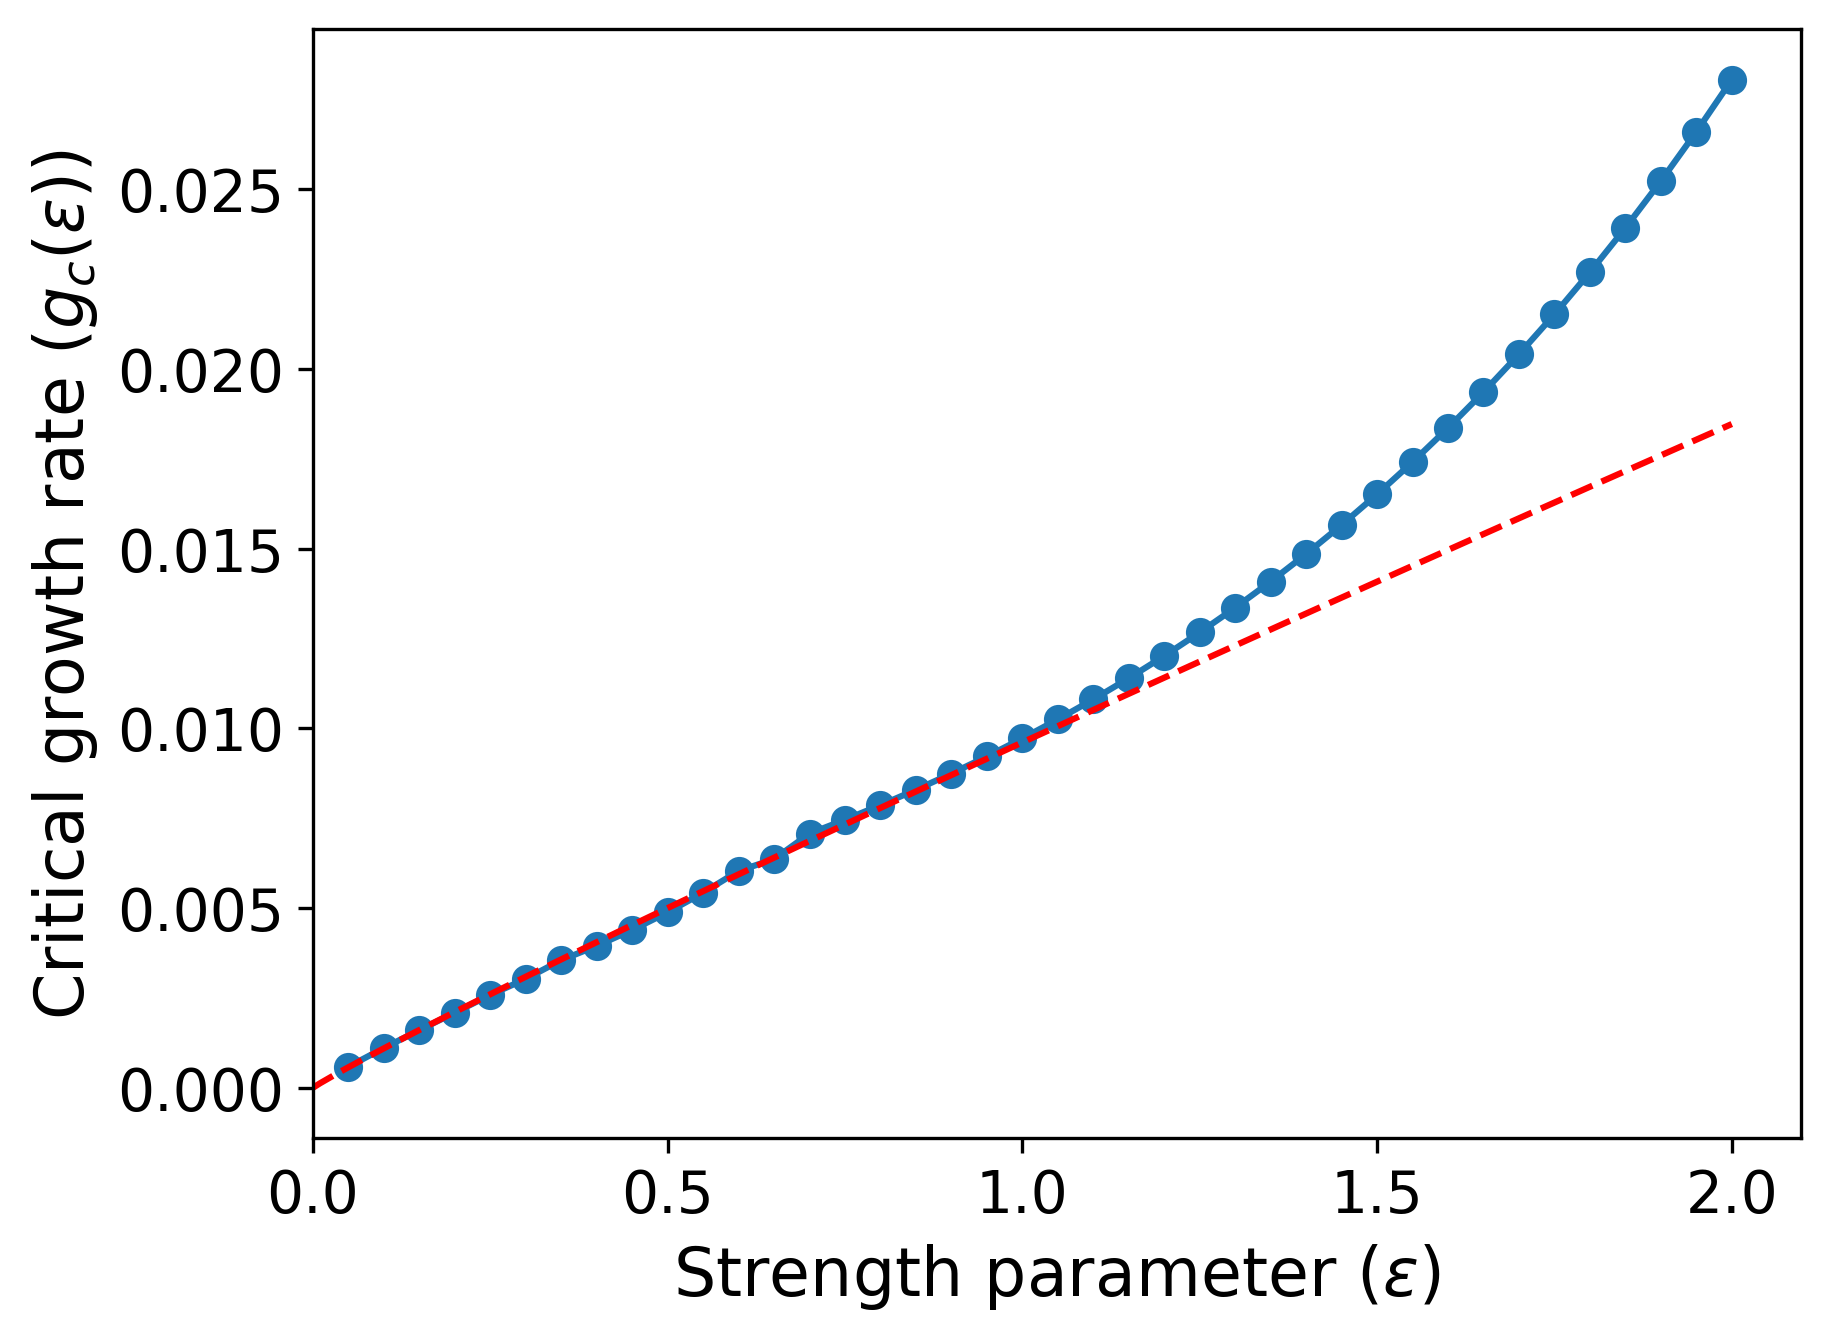
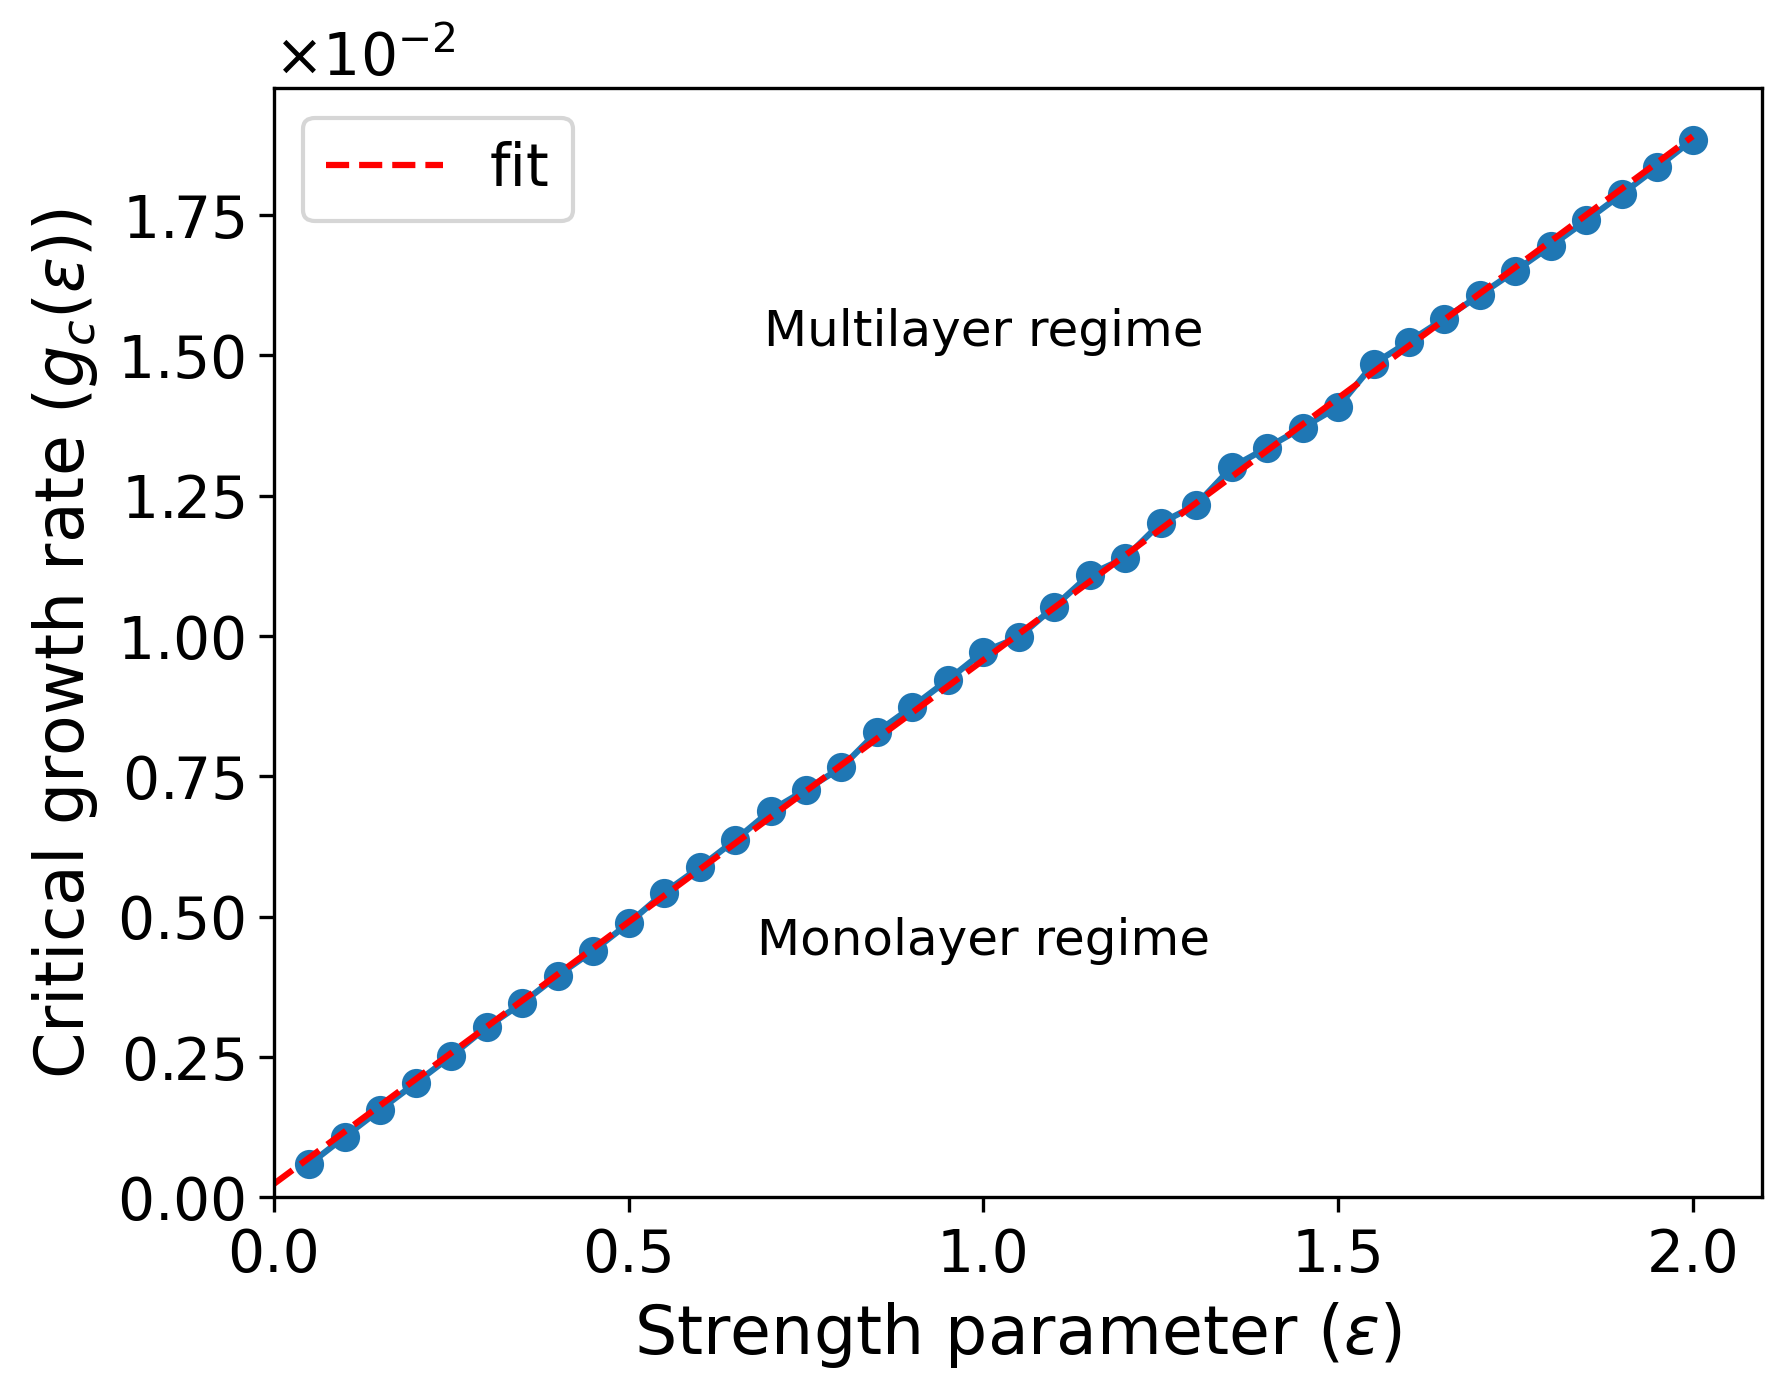
Critical time semi-log and log-log plot creation

diff --git a/plot_from_data.py b/plot_from_data.py
@@ -1,6 +1,7 @@
 import pandas as pd
 import numpy as np
 import matplotlib.pyplot as plt
+import matplotlib.ticker as ticker
 import os
 from scipy.stats import linregress
 
@@ -56,7 +57,7 @@ def plot_first_layer_event_from_csv(csv_filename, filename_event_time = None, fi
     plt.show()    
 
 def plot_critical_time_event_from_csv(csv_filename, xaxis_param='g', series_params=None, plot_filename=None,
-                                      loglog = False):
+                                      loglog = False, fit = False):
     """
     Recreate the plot of critical time vs growth parameter from saved CSV.
     
@@ -83,12 +84,16 @@ def plot_critical_time_event_from_csv(csv_filename, xaxis_param='g', series_para
     if series_params:
         grouped = df.groupby(series_params)
         for series_key, group in grouped:
+            opacity = 1
+            #if series_key[0] == 0.5 or series_key[0] == 2: continue
             group = group.sort_values(by=xaxis_param)
             x_vals = group[xaxis_param].values
             t_vals = group['t_event'].values
             if not isinstance(series_key, tuple):
                 series_key = (series_key,)
-            if loglog:
+            label = ", ".join([f"{p}={v}" for p, v in zip(series_params, series_key)])
+            ax.plot(x_vals, t_vals, marker='o', linestyle='-', label=label, alpha = opacity)
+            if fit:
                 # Regression line
                 x_data = np.log(x_vals)
                 y_data = np.log(t_vals)
@@ -102,9 +107,7 @@ def plot_critical_time_event_from_csv(csv_filename, xaxis_param='g', series_para
                 print(f"Power law fit: g(ε) = {A:.4f} * g^{B:.4f} (R² = {r_value**2:.4f})")
                 x_fit = np.linspace(min(x_vals), max(x_vals))
                 y_fit = A * x_fit**B
-                ax.plot(x_fit, y_fit, 'r--')
-            label = ", ".join([f"{p}={v}" for p, v in zip(series_params, series_key)])
-            ax.plot(x_vals, t_vals, marker='o', linestyle='-', label=label)
+                ax.plot(x_fit, y_fit, 'r--', label = 'fit')
     else:
         group = df.sort_values(by=xaxis_param)
         ax.plot(group[xaxis_param], group['t_event'], marker='o', linestyle='-', label=None)
@@ -115,6 +118,7 @@ def plot_critical_time_event_from_csv(csv_filename, xaxis_param='g', series_para
         ax.set_yscale('log')
     ax.set_xlabel("Growth parameter (g)")
     ax.set_ylabel('Critical time ($t_c$)')
+    ax.set_ylim(bottom = 0)
     ax.legend()
 
     if plot_filename:
@@ -252,15 +256,13 @@ def plot_phase_transition(csv_filename, plot_filename = None, loglog = False):
     epsilon_values = df['epsilon'].values
 
     if loglog:
-        x_data = np.log(epsilon_values[:20:])
-        y_data = np.log(g_values[:20])
+        x_data = epsilon_values
+        y_data = g_values
         # fit linear regression
         slope, intercept, r_value, p_value, std_err = linregress(x_data, y_data)
-        A = np.exp(intercept)
-        B = slope
-        print(f"Power law fit: g(ε) = {A:.4f} * ε^{B:.4f} (R² = {r_value**2:.4f})")
+        print(f"Linear regression: g(ε) = {slope:.4f} * ε + {intercept} (R² = {r_value**2:.4f})")
         x_fit = np.linspace(0, max(epsilon_values), 201)
-        y_fit = A * x_fit**B
+        y_fit = slope * x_fit + intercept
 
 
     plt.figure()
@@ -268,10 +270,21 @@ def plot_phase_transition(csv_filename, plot_filename = None, loglog = False):
     plt.xlabel("Strength parameter ($\epsilon$)")
     plt.ylabel("Critical growth rate ($g_c(\epsilon)$)")
     plt.xlim(left = 0)
+    plt.ylim(bottom = 0)
+    # Add text above the line
+    plt.text(1, 1.5e-2, "Multilayer regime", ha='center', va='bottom', fontsize=12)
+
+    # Add text below the line
+    plt.text(1, 0.5e-2, "Monolayer regime", ha='center', va='top', fontsize=12)
     #plt.xscale('log')
     #plt.yscale('log)
+    # Force scientific notation on y-axis
+    ax = plt.gca()
+    ax.yaxis.set_major_formatter(ticker.ScalarFormatter(useMathText=True))
+    ax.ticklabel_format(style='sci', axis='y', scilimits=(0,0))
     if loglog:
-        plt.plot(x_fit, y_fit, 'r--')
+        plt.plot(x_fit, y_fit, 'r--', label = f"fit")
+    plt.legend()
 
     if plot_filename:
         output_dir = os.path.dirname(plot_filename)
@@ -296,9 +309,11 @@ if __name__ == "__main__":
 
     if choice == 'a':
         csv_path = "Results/data/critical_time_eps.csv"
+        plot_filename = "Results/plots/critical_time_log_log_fit.png"
         plot_critical_time_event_from_csv(
             csv_filename=csv_path,
-            loglog=False
+            plot_filename=None,
+            loglog=True, fit=True
         )
     
     elif choice == 'b':

diff --git a/layer_formation_analysis.py b/layer_formation_analysis.py
@@ -273,11 +273,9 @@ if __name__ == '__main__':
                                 T = 50000, plot_filename = plot_filename, csv_filename = csv_filename)
     elif choice == "b":
         params = {
-            'g': np.logspace(np.log10(0.0005), -1, 101),
+            'g': np.logspace(np.log10(0.0005), -1, 201),
             'epsilon': [0.05*k for k in range(1, 41)]
         }
-        print(np.logspace(np.log10(0.0005), -1, 101))
-        exit()
         params_c = {
             'g': np.logspace(-3, -1, 51),
             'c': [k for k in range(1, 11)]
@@ -288,6 +286,6 @@ if __name__ == '__main__':
         csv_filename = "Results/data/phase_transition_g_eps.csv"
         parameter = 'epsilon'
 
-        phase_transition_analysis(params=params_c, parameter = parameter,
+        phase_transition_analysis(params=params, parameter = parameter,
                                   T = 50000, plot_filename = plot_filename, csv_filename = csv_filename)
 
